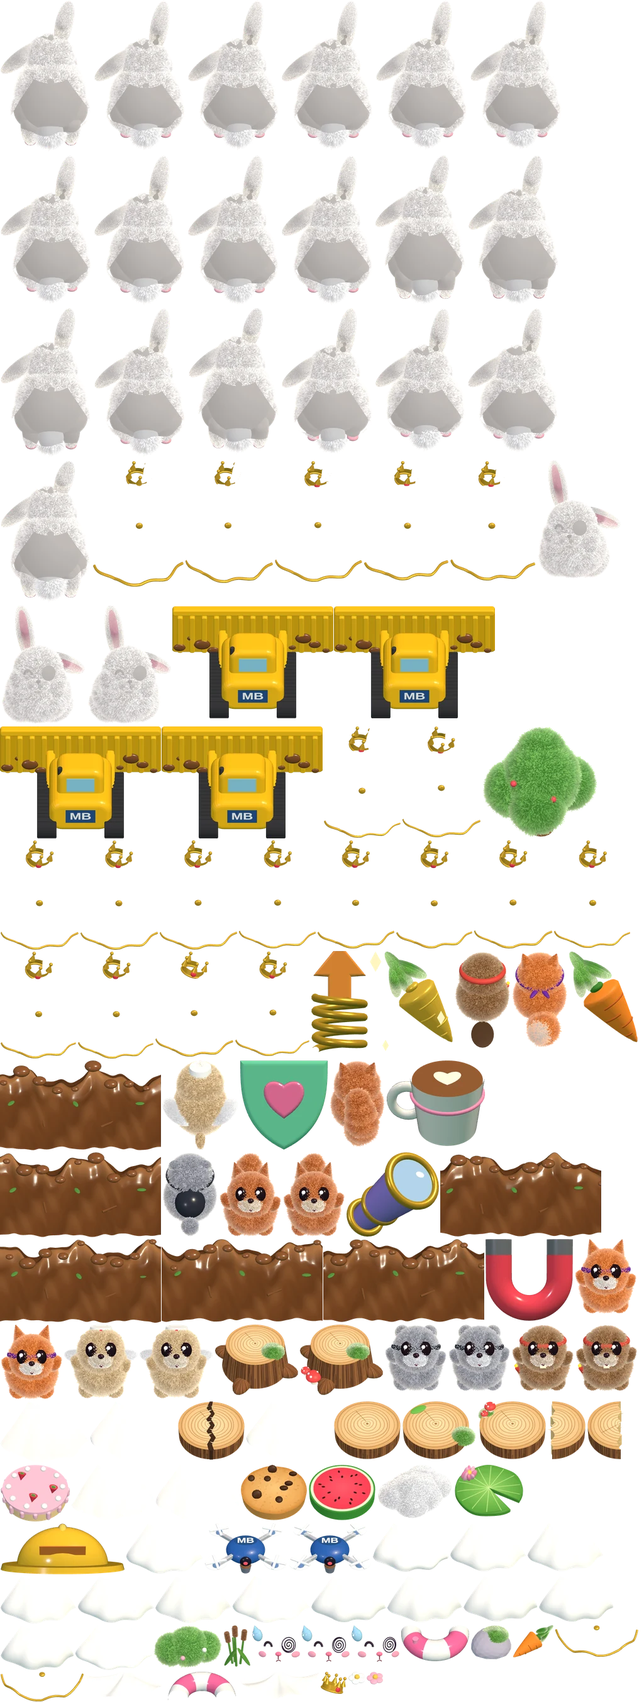
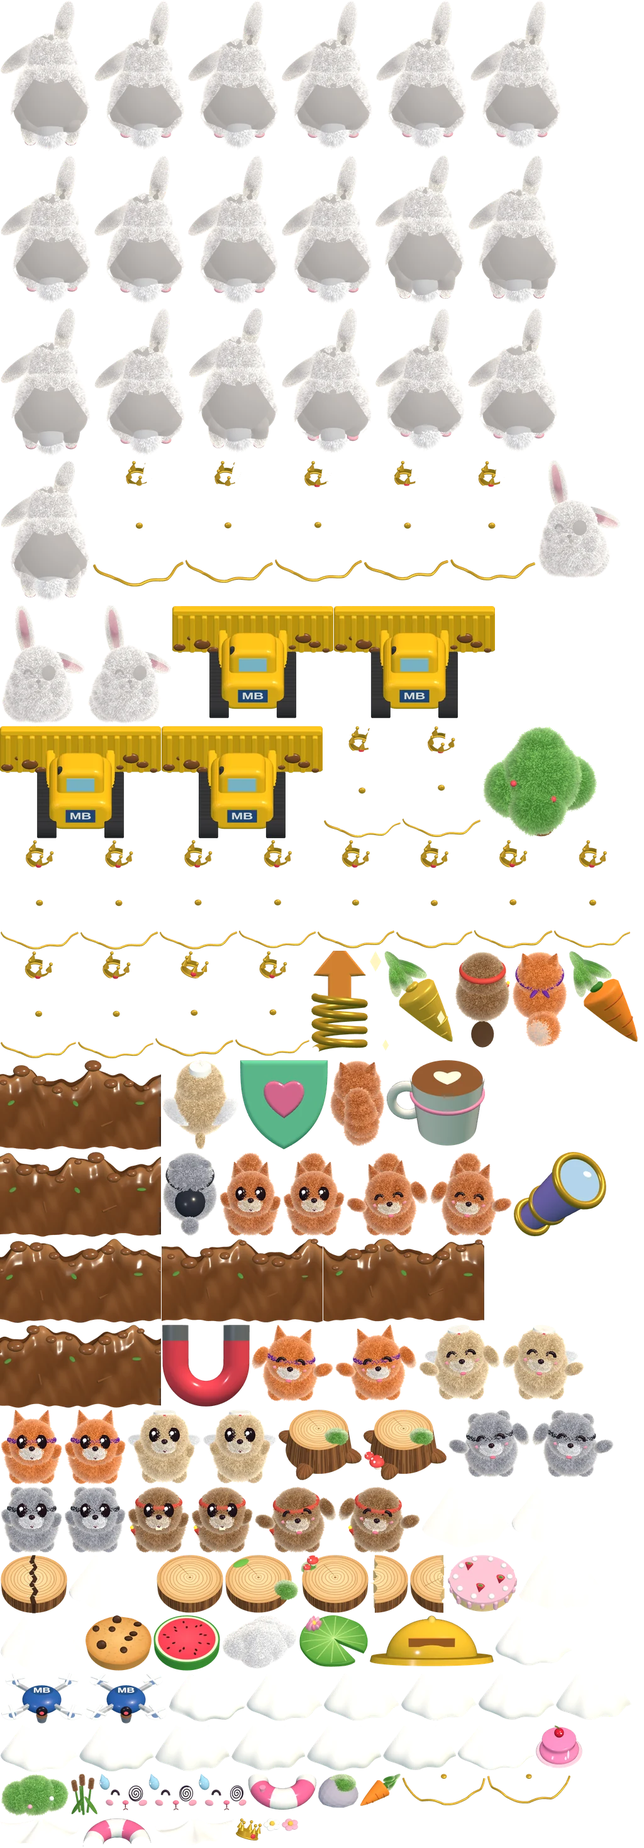
alfa d619ebe: Fans of Jump: la fiesta de la Fiebre arcoíris por niveles, amigos animando y gel

diff --git a/alfa/games/jump/js/atlas.js b/alfa/games/jump/js/atlas.js
@@ -2,4 +2,4 @@
 // Cada dibujo: [x, y, ancho, alto, ax, ay] en la lámina; (ax, ay) es su punto de apoyo. «unidad»: píxeles de la lámina por cada
 // unidad del modelo 3D (de lado, y de alto en el suelo).
 'use strict';
-const ATLAS = {"src":"img/atlas.webp","unidadX":52.5,"unidadY":39.2,"cuadros":{"quieto0_cuerpo":[149,0,148,244,83.0,179.3],"quieto0_capa":[736,2505,119,74,60.0,47.3],"quieto0_oro":[0,1512,122,172,61.5,143.3],"quieto1_cuerpo":[597,0,149,243,83.0,178.8],"quieto1_capa":[856,2505,120,74,60.5,46.8],"quieto1_oro":[123,1512,122,172,62.0,142.8],"quieto2_cuerpo":[0,246,148,242,83.0,178.8],"quieto2_capa":[494,2505,120,75,61.0,46.8],"quieto2_oro":[880,1335,123,173,62.5,142.8],"quieto3_cuerpo":[747,0,149,243,83.0,178.8],"quieto3_capa":[123,2505,122,76,61.0,46.8],"quieto3_oro":[379,1335,124,174,62.5,142.8],"quieto4_cuerpo":[298,0,148,244,83.0,179.3],"quieto4_capa":[715,2421,122,78,61.0,47.3],"quieto4_oro":[0,1335,126,176,62.5,143.3],"quieto5_cuerpo":[149,246,148,242,83.0,179.8],"quieto5_capa":[0,2505,122,77,60.5,47.3],"quieto5_oro":[127,1335,125,176,62.0,143.8],"quieto6_cuerpo":[298,246,148,242,83.0,179.8],"quieto6_capa":[246,2505,122,76,60.0,47.8],"quieto6_oro":[504,1335,124,174,61.5,143.8],"quieto7_cuerpo":[447,246,148,242,83.0,179.8],"quieto7_capa":[615,2505,120,75,59.5,47.3],"quieto7_oro":[629,1335,123,174,61.5,143.8],"agacha_cuerpo":[596,489,146,234,81.5,166.3],"agacha_capa":[0,2583,118,73,59.5,37.8],"agacha_oro":[373,1512,120,168,61.0,131.3],"salto0_cuerpo":[0,732,146,230,80.5,162.3],"salto0_capa":[592,2421,122,79,60.0,50.8],"salto0_oro":[514,1154,124,179,62.0,148.8],"salto1_cuerpo":[299,489,147,237,80.5,168.3],"salto1_capa":[143,2227,138,95,67.0,51.3],"salto1_oro":[294,732,141,196,68.5,149.3],"salto2_cuerpo":[596,246,147,242,80.0,173.8],"salto2_capa":[0,2227,142,100,72.5,51.8],"salto2_oro":[147,732,146,202,74.5,150.3],"salto3_cuerpo":[0,0,148,245,80.5,176.3],"salto3_capa":[113,2328,133,91,68.0,51.8],"salto3_oro":[578,732,136,192,70.0,150.3],"salto4_cuerpo":[744,246,147,242,81.0,176.3],"salto4_capa":[247,2328,134,91,65.0,50.8],"salto4_oro":[715,732,137,192,67.0,149.3],"salto5_cuerpo":[0,489,148,242,81.5,175.8],"salto5_capa":[391,2227,138,94,67.5,49.8],"salto5_oro":[436,732,141,194,69.5,147.8],"aterriza0_cuerpo":[743,489,148,234,82.0,168.8],"aterriza0_capa":[119,2583,123,73,61.0,39.8],"aterriza0_oro":[246,1512,126,169,63.0,133.8],"aterriza1_cuerpo":[447,489,148,237,82.5,172.8],"aterriza1_capa":[200,2421,123,82,61.0,42.8],"aterriza1_oro":[639,1154,126,178,62.5,136.8],"aterriza2_cuerpo":[149,489,149,242,83.0,177.3],"aterriza2_capa":[369,2505,124,76,61.5,45.3],"aterriza2_oro":[753,1335,126,174,63.0,141.3],"aterriza3_cuerpo":[447,0,149,244,83.0,179.3],"aterriza3_capa":[838,2421,122,78,60.5,46.8],"aterriza3_oro":[253,1335,125,176,62.0,142.8],"flota0_cuerpo":[853,732,135,190,59.0,180.8],"flota0_oro":[400,2583,78,60,49.5,105.8],"flota1_cuerpo":[0,963,136,190,61.0,180.8],"flota1_oro":[479,2583,78,60,44.0,105.8],"flota2_cuerpo":[137,963,136,190,63.0,180.8],"flota2_oro":[558,2583,78,60,39.0,105.8],"zorro_susto0":[913,1969,100,121,50.5,102.3],"zorro_susto1":[0,2105,100,121,50.5,102.3],"zorro_espalda":[813,1512,90,154,45.5,96.3],"mapache_susto0":[611,2105,100,108,50.5,89.3],"mapache_susto1":[712,2105,100,108,50.5,89.3],"mapache_espalda":[257,1831,90,136,45.5,96.3],"suricata_susto0":[101,2105,119,120,59.5,101.8],"suricata_susto1":[221,2105,119,120,59.5,101.8],"suricata_espalda":[257,1685,123,144,61.5,106.3],"castor_susto0":[813,2105,100,108,50.5,88.8],"castor_susto1":[914,2105,100,108,50.5,88.8],"castor_espalda":[722,1512,90,155,45.5,96.3],"ardilla_susto0":[348,1831,100,136,50.5,117.8],"ardilla_susto1":[449,1831,100,136,50.5,117.8],"ardilla_espalda":[523,1685,90,140,45.5,96.3],"tronco0":[530,2227,108,94,54.0,36.3],"tronco1":[639,2227,119,94,54.0,36.3],"tronco2":[759,2227,110,94,56.0,36.3],"piel_nenufar":[722,2328,111,84,55.5,37.8],"piel_galleta":[382,2328,107,90,53.5,35.8],"piel_sandia":[490,2328,108,90,54.0,36.3],"piel_tarta":[0,2328,112,92,56.5,36.8],"piel_nube":[599,2328,122,87,62.5,37.8],"tronco_grieta":[282,2227,108,95,54.0,37.3],"tronco_mitad0":[870,2227,62,94,8.0,36.3],"tronco_mitad1":[933,2227,59,94,54.0,36.3],"tocon0":[341,2105,134,114,65.0,61.8],"tocon1":[476,2105,134,114,65.0,61.8],"arbol0":[766,1154,185,178,94.5,160.8],"arbusto0":[243,2583,111,70,56.5,51.8],"roca0":[748,2583,66,56,33.5,39.3],"juncos0":[355,2583,44,68,22.5,64.8],"flor0":[553,2657,28,22,14.5,14.3],"flor1":[582,2657,28,22,14.5,14.3],"dron0":[324,2421,133,82,66.5,86.3],"dron1":[458,2421,133,82,66.5,86.3],"flotador_atras":[266,2657,110,47,55.5,46.3],"flotador_delante":[637,2583,110,59,55.0,16.8],"corona_suelta":[509,2657,43,37,20.0,32.8],"capaflota0":[135,2657,130,48,65.0,14.8],"capaflota1":[377,2657,131,45,65.5,14.8],"capaflota0oro":[882,2583,134,52,66.5,17.3],"capaflota1oro":[0,2657,134,49,67.0,17.3],"zanahoria":[815,2583,66,53,43.0,32.8],"casco_icono":[0,2421,199,83,99.5,139.3],"cafe_icono":[614,1685,158,138,97.0,165.3],"suerte_icono":[587,1512,134,160,64.0,149.3],"mirilla_icono":[550,1831,149,136,78.0,162.8],"iman_icono":[771,1969,141,132,70.5,139.3],"super_icono":[494,1512,92,162,46.0,180.8],"escudo_icono":[381,1685,141,144,70.5,136.8],"zanahoria_icono":[904,1512,111,146,40.5,149.3],"ola0":[257,1969,256,134,128.0,121.3],"ola1":[0,1969,256,135,128.0,122.3],"ola2":[0,1831,256,137,128.0,123.8],"ola3":[0,1685,256,145,128.0,132.3],"ola4":[700,1831,256,136,128.0,122.8],"ola5":[514,1969,256,134,128.0,121.3],"topadora0":[274,963,256,180,128.0,137.3],"topadora1":[531,963,256,180,128.0,137.3],"topadora2":[0,1154,256,180,128.0,137.3],"topadora3":[257,1154,256,180,128.0,137.3]}};
+const ATLAS = {"src":"img/atlas.webp","unidadX":52.5,"unidadY":39.2,"cuadros":{"quieto0_cuerpo":[149,0,148,244,83.0,179.3],"quieto0_capa":[367,2743,119,74,60.0,47.3],"quieto0_oro":[0,1512,122,172,61.5,143.3],"quieto1_cuerpo":[597,0,149,243,83.0,178.8],"quieto1_capa":[487,2743,120,74,60.5,46.8],"quieto1_oro":[123,1512,122,172,62.0,142.8],"quieto2_cuerpo":[0,246,148,242,83.0,178.8],"quieto2_capa":[125,2743,120,75,61.0,46.8],"quieto2_oro":[880,1335,123,173,62.5,142.8],"quieto3_cuerpo":[747,0,149,243,83.0,178.8],"quieto3_capa":[760,2660,122,76,61.0,46.8],"quieto3_oro":[379,1335,124,174,62.5,142.8],"quieto4_cuerpo":[298,0,148,244,83.0,179.3],"quieto4_capa":[391,2660,122,78,61.0,47.3],"quieto4_oro":[0,1335,126,176,62.5,143.3],"quieto5_cuerpo":[149,246,148,242,83.0,179.8],"quieto5_capa":[637,2660,122,77,60.5,47.3],"quieto5_oro":[127,1335,125,176,62.0,143.8],"quieto6_cuerpo":[298,246,148,242,83.0,179.8],"quieto6_capa":[883,2660,122,76,60.0,47.8],"quieto6_oro":[504,1335,124,174,61.5,143.8],"quieto7_cuerpo":[447,246,148,242,83.0,179.8],"quieto7_capa":[246,2743,120,75,59.5,47.3],"quieto7_oro":[629,1335,123,174,61.5,143.8],"agacha_cuerpo":[596,489,146,234,81.5,166.3],"agacha_capa":[608,2743,118,73,59.5,37.8],"agacha_oro":[373,1512,120,168,61.0,131.3],"salto0_cuerpo":[0,732,146,230,80.5,162.3],"salto0_capa":[268,2660,122,79,60.0,50.8],"salto0_oro":[514,1154,124,179,62.0,148.8],"salto1_cuerpo":[299,489,147,237,80.5,168.3],"salto1_capa":[813,2363,138,95,67.0,51.3],"salto1_oro":[294,732,141,196,68.5,149.3],"salto2_cuerpo":[596,246,147,242,80.0,173.8],"salto2_capa":[670,2363,142,100,72.5,51.8],"salto2_oro":[147,732,146,202,74.5,150.3],"salto3_cuerpo":[0,0,148,245,80.5,176.3],"salto3_capa":[824,2472,133,91,68.0,51.8],"salto3_oro":[578,732,136,192,70.0,150.3],"salto4_cuerpo":[744,246,147,242,81.0,176.3],"salto4_capa":[0,2568,134,91,65.0,50.8],"salto4_oro":[715,732,137,192,67.0,149.3],"salto5_cuerpo":[0,489,148,242,81.5,175.8],"salto5_capa":[109,2472,138,94,67.5,49.8],"salto5_oro":[436,732,141,194,69.5,147.8],"aterriza0_cuerpo":[743,489,148,234,82.0,168.8],"aterriza0_capa":[727,2743,123,73,61.0,39.8],"aterriza0_oro":[246,1512,126,169,63.0,133.8],"aterriza1_cuerpo":[447,489,148,237,82.5,172.8],"aterriza1_capa":[787,2568,123,82,61.0,42.8],"aterriza1_oro":[639,1154,126,178,62.5,136.8],"aterriza2_cuerpo":[149,489,149,242,83.0,177.3],"aterriza2_capa":[0,2743,124,76,61.5,45.3],"aterriza2_oro":[753,1335,126,174,63.0,141.3],"aterriza3_cuerpo":[447,0,149,244,83.0,179.3],"aterriza3_capa":[514,2660,122,78,60.5,46.8],"aterriza3_oro":[253,1335,125,176,62.0,142.8],"flota0_cuerpo":[853,732,135,190,59.0,180.8],"flota0_oro":[157,2820,78,60,49.5,105.8],"flota1_cuerpo":[0,963,136,190,61.0,180.8],"flota1_oro":[236,2820,78,60,44.0,105.8],"flota2_cuerpo":[137,963,136,190,63.0,180.8],"flota2_oro":[315,2820,78,60,39.0,105.8],"zorro_susto0":[0,2241,100,121,50.5,102.3],"zorro_susto1":[101,2241,100,121,50.5,102.3],"zorro_espalda":[813,1512,90,154,45.5,96.3],"zorro_anima0":[532,2106,132,123,69.0,104.3],"zorro_anima1":[399,2106,132,124,62.5,104.8],"mapache_susto0":[0,2363,100,108,50.5,89.3],"mapache_susto1":[101,2363,100,108,50.5,89.3],"mapache_espalda":[257,1831,90,136,45.5,96.3],"mapache_anima0":[712,2241,132,110,69.0,91.8],"mapache_anima1":[845,2241,132,110,62.5,91.8],"suricata_susto0":[202,2241,119,120,59.5,101.8],"suricata_susto1":[322,2241,119,120,59.5,101.8],"suricata_espalda":[257,1685,123,144,61.5,106.3],"suricata_anima0":[665,2106,132,122,69.0,103.3],"suricata_anima1":[798,2106,132,122,62.5,103.3],"castor_susto0":[202,2363,100,108,50.5,88.8],"castor_susto1":[303,2363,100,108,50.5,88.8],"castor_espalda":[722,1512,90,155,45.5,96.3],"castor_anima0":[404,2363,132,108,69.0,88.8],"castor_anima1":[537,2363,132,108,62.5,88.8],"ardilla_susto0":[348,1831,100,136,50.5,117.8],"ardilla_susto1":[449,1831,100,136,50.5,117.8],"ardilla_espalda":[523,1685,90,140,45.5,96.3],"ardilla_anima0":[550,1831,132,136,69.0,117.8],"ardilla_anima1":[683,1831,132,136,62.5,117.8],"tronco0":[248,2472,108,94,54.0,36.3],"tronco1":[357,2472,119,94,54.0,36.3],"tronco2":[477,2472,110,94,56.0,36.3],"piel_nenufar":[475,2568,111,84,55.5,37.8],"piel_galleta":[135,2568,107,90,53.5,35.8],"piel_sandia":[243,2568,108,90,54.0,36.3],"piel_tarta":[711,2472,112,92,56.5,36.8],"piel_nube":[352,2568,122,87,62.5,37.8],"tronco_grieta":[0,2472,108,95,54.0,37.3],"tronco_mitad0":[588,2472,62,94,8.0,36.3],"tronco_mitad1":[651,2472,59,94,54.0,36.3],"gelatina":[851,2743,76,70,38.0,41.3],"tocon0":[442,2241,134,114,65.0,61.8],"tocon1":[577,2241,134,114,65.0,61.8],"arbol0":[766,1154,185,178,94.5,160.8],"arbusto0":[0,2820,111,70,56.5,51.8],"roca0":[505,2820,66,56,33.5,39.3],"juncos0":[112,2820,44,68,22.5,64.8],"flor0":[418,2891,28,22,14.5,14.3],"flor1":[447,2891,28,22,14.5,14.3],"dron0":[0,2660,133,82,66.5,86.3],"dron1":[134,2660,133,82,66.5,86.3],"flotador_atras":[131,2891,110,47,55.5,46.3],"flotador_delante":[394,2820,110,59,55.0,16.8],"corona_suelta":[374,2891,43,37,20.0,32.8],"capaflota0":[0,2891,130,48,65.0,14.8],"capaflota1":[242,2891,131,45,65.5,14.8],"capaflota0oro":[639,2820,134,52,66.5,17.3],"capaflota1oro":[774,2820,134,49,67.0,17.3],"zanahoria":[572,2820,66,53,43.0,32.8],"casco_icono":[587,2568,199,83,99.5,139.3],"cafe_icono":[614,1685,158,138,97.0,165.3],"suerte_icono":[587,1512,134,160,64.0,149.3],"mirilla_icono":[816,1831,149,136,78.0,162.8],"iman_icono":[257,2106,141,132,70.5,139.3],"super_icono":[494,1512,92,162,46.0,180.8],"escudo_icono":[381,1685,141,144,70.5,136.8],"zanahoria_icono":[904,1512,111,146,40.5,149.3],"ola0":[514,1969,256,134,128.0,121.3],"ola1":[257,1969,256,135,128.0,122.3],"ola2":[0,1831,256,137,128.0,123.8],"ola3":[0,1685,256,145,128.0,132.3],"ola4":[0,1969,256,136,128.0,122.8],"ola5":[0,2106,256,134,128.0,121.3],"topadora0":[274,963,256,180,128.0,137.3],"topadora1":[531,963,256,180,128.0,137.3],"topadora2":[0,1154,256,180,128.0,137.3],"topadora3":[257,1154,256,180,128.0,137.3]}};

diff --git a/alfa/games/jump/js/fiesta.js b/alfa/games/jump/js/fiesta.js
@@ -1,0 +1,125 @@
+// Fans of Jump · La FIESTA de la Fiebre arcoíris: cuantos más ¡Perfecto! seguidos (J.cadena), más sube el nivel (1 a 5) y más
+// espectacular se pone: un arcoíris encima de otro, lluvia de confeti, globos que suben, mariposas de colores, los amigos
+// animando desde las orillas, fuegos artificiales y, a tope, el borde de la pantalla brillando en arcoíris. La música va más
+// deprisa en cada nivel (sonido.js). Un salto que no es perfecto baja la fiesta al nivel 1 hasta que se acaba la Fiebre.
+'use strict';
+
+const NIVELES_FIESTA = [3, 8, 14, 22, 32];   // ¡Perfecto! seguidos para cada nivel
+const TITULOS_FIESTA = [null, null, '¡Doble arcoíris!', '¡Triple arcoíris!', '¡Fiesta en el bosque!', '¡ARCOÍRIS INFINITO!'];
+const FIESTA = { nivel: 0, arcos: [0, 0, 0, 0, 0], globos: [], fuegos: [], chispas: [], maris: [], fans: [], borde: 0 };
+const FANS_ID = ['zorro', 'castor', 'suricata', 'mapache', 'ardilla', 'zorro'];
+const FANS_Y = [0.42, 0.58, 0.72, 0.3, 0.86, 0.47];   // a qué altura de la pantalla anima cada uno (pares a la izquierda)
+
+function nivelFiesta() {
+  const J = JUEGO;
+  if (!(J.fiebre > 0) || J.modo !== 'juego') return 0;
+  let n = 0; for (const u of NIVELES_FIESTA) if ((J.cadena || 0) >= u) n++;
+  return Math.max(1, n);
+}
+function reiniciaFiesta() { Object.assign(FIESTA, { nivel: 0, arcos: [0, 0, 0, 0, 0], globos: [], fuegos: [], chispas: [], maris: [], fans: [], borde: 0 }); }
+
+function subeFiesta(n) {
+  const J = JUEGO;
+  if (n < 2) return;   // el nivel 1 es la Fiebre de siempre (enciendeFiebre)
+  bandera(tr(TITULOS_FIESTA[n]), 'arcoiris');
+  confeti(PAN.W / 2, J.conejo.wy, 30 + n * 15);
+  for (let i = 0; i < n; i++) FIESTA.globos.push(globo(true));
+  if (n >= 4) for (let i = 0; i < n - 2; i++) fuego();
+  SONIDO.fiesta(n); vibra([20, 30, 20 + n * 10]);
+  // los amigos de la orilla: entran en el nivel 3 y cada nivel trae más
+  const quiere = n >= 3 ? (n - 2) * 2 : 0;
+  while (FIESTA.fans.filter(f => !f.sale).length < quiere) {
+    const i = FIESTA.fans.length, lado = i % 2 ? 1 : -1;
+    FIESTA.fans.push({ id: FANS_ID[i % FANS_ID.length], lado, y: FANS_Y[i % FANS_Y.length], entra: 0, sale: false, f: Math.random() * 6 });
+  }
+}
+
+/* ---------- lo que vuela ---------- */
+function globo(abajo) {
+  const W = PAN.W;
+  return { x: azar(10, W - 10), y: abajo ? PAN.H + azar(5, 40) : PAN.H + 10, v: azar(26, 40), f: Math.random() * 6, r: azar(5.5, 8), c: ARCOIRIS[Math.floor(Math.random() * 7)], pum: 0 };
+}
+function fuego() {
+  const W = PAN.W, x = azar(W * 0.15, W * 0.85), y = azar(PAN.H * 0.08, PAN.H * 0.32), c = ARCOIRIS[Math.floor(Math.random() * 7)], n = GUARDA.suave ? 14 : 26;
+  for (let i = 0; i < n; i++) { const a = i / n * Math.PI * 2, s = azar(55, 80); FIESTA.chispas.push({ x, y, vx: Math.cos(a) * s, vy: Math.sin(a) * s, v: azar(0.9, 1.3), c: i % 3 ? c : '#ffffff' }); }
+  FIESTA.fuegos.push({ x, y, t: 0 });
+  SONIDO.pum();
+}
+
+function avanzaFiesta(dt) {
+  const F = FIESTA, n = nivelFiesta(), W = PAN.W, H = PAN.H, poco = GUARDA.suave ? 0.4 : 1;
+  if (n > F.nivel) subeFiesta(n);
+  F.nivel = n;
+  // los arcoíris: cada uno aparece (y se va) suave
+  F.arcos = F.arcos.map((a, i) => a + ((i < n ? 1 : 0) - a) * Math.min(1, dt * (i < n ? 2.5 : 3)));
+  F.borde += ((n >= 5 ? 1 : 0) - F.borde) * Math.min(1, dt * 2);
+  // lluvia de confeti, globos, mariposas y fuegos: más cuanto más alto el nivel
+  if (n >= 2 && Math.random() < dt * (n - 1) * 5 * poco && BONITO.confeti.length < 260) confeti(W / 2, 0, 3);
+  if (n >= 3 && Math.random() < dt * (n - 2) * 0.8 * poco && F.globos.length < 13) F.globos.push(globo(false));
+  if (n >= 3 && Math.random() < dt * (n - 2) * 0.9 * poco && F.maris.length < 18) F.maris.push({ x: Math.random() < 0.5 ? -6 : W + 6, d: 0, y: azar(H * 0.15, H * 0.8), f: Math.random() * 6, v: azar(14, 24), c: Math.floor(Math.random() * 3), vida: 6 });
+  if (n >= 4 && Math.random() < dt * (n - 3) * 0.9 * poco) fuego();
+  for (const g of F.globos) { g.f += dt; g.y -= g.v * dt; g.x += Math.sin(g.f * 1.6) * 6 * dt; if (g.y < 30 && !g.pum && Math.random() < dt * 3) g.pum = 0.001; if (g.pum) g.pum += dt; }
+  F.globos = F.globos.filter(g => g.y > -20 && g.pum < 0.25);
+  for (const m of F.maris) { if (!m.d) m.d = m.x < 0 ? 1 : -1; m.f += dt * 3; m.vida -= dt; m.x += (m.d * m.v + Math.cos(m.f * 0.5) * 8) * dt; m.y += (Math.sin(m.f * 0.8) * 14 - 6) * dt; }
+  F.maris = F.maris.filter(m => m.vida > 0);
+  for (const c of F.chispas) { c.x += c.vx * dt; c.y += c.vy * dt; c.vx *= 1 - dt * 1.8; c.vy = c.vy * (1 - dt * 1.8) + 30 * dt; c.v -= dt; }
+  F.chispas = F.chispas.filter(c => c.v > 0);
+  for (const f of F.fuegos) f.t += dt;
+  F.fuegos = F.fuegos.filter(f => f.t < 0.35);
+  // los amigos de la orilla: si baja la fiesta, se van saltando
+  const quiere = n >= 3 ? (n - 2) * 2 : 0;
+  F.fans.forEach((f, i) => { f.f += dt; if (i >= quiere) f.sale = true; f.entra = Math.max(0, Math.min(1, f.entra + (f.sale ? -dt * 2 : dt * 2.5))); });
+  F.fans = F.fans.filter(f => !(f.sale && f.entra <= 0));
+}
+
+/* ---------- pintar ---------- */
+// los arcoíris de la fiebre, uno encima de otro (detrás de lo de arriba del mundo)
+function pintaArcos(t) {
+  const F = FIESTA, W = PAN.W, H = PAN.H;
+  G.save(); G.lineCap = 'butt';
+  F.arcos.forEach((a, j) => {
+    if (a < 0.02) return;
+    const cx = W / 2 + Math.sin(t * 0.8 + j * 1.7) * j * 3, cy = H * (0.55 - j * 0.085) + Math.sin(t * 1.3 + j) * 2, R = W * (0.62 - j * 0.035) * (0.7 + a * 0.3);
+    G.globalAlpha = (j ? 0.4 : 0.45) * a;
+    ARCOIRIS.forEach((col, i) => { G.beginPath(); G.arc(cx, cy, R - i * 4.2, Math.PI * 1.05, Math.PI * 1.95); G.lineWidth = 4.4; G.strokeStyle = col; G.stroke(); });
+    // brillitos que corren por encima del arco
+    const k = (t * 0.35 + j * 0.23) % 1, ang = Math.PI * (1.05 + k * 0.9);
+    estrellita(cx + Math.cos(ang) * (R - 12), cy + Math.sin(ang) * (R - 12), 3.4, 0.9 * a);
+  });
+  G.restore();
+}
+// los amigos animando desde las orillas (detrás de los troncos): entran desde el lado y botan con los brazos arriba
+function pintaFans(t) {
+  for (const f of FIESTA.fans) {
+    const e = f.entra * f.entra * (3 - 2 * f.entra), y = PAN.H * f.y, x0 = f.lado < 0 ? -14 : PAN.W + 14;
+    const borde = f.lado < 0 ? orillas(CAM.y + PAN.H - y)[0] - 9 : orillas(CAM.y + PAN.H - y)[1] + 9;
+    const x = x0 + (borde - x0) * e, bote = Math.abs(Math.sin(f.f * 7)) * 5;
+    elipse(x, y + 1, 5.5 - bote * 0.4, 1.8, 'rgba(60,90,40,0.25)', null);
+    sprite(f.id + '_anima' + (Math.floor(f.f * 5) % 2), x, y - bote, 11, Math.sin(f.f * 7) * 0.08, f.lado < 0 ? 1 : -1, 1);
+  }
+}
+function pintaGlobo(g) {
+  const k = g.pum ? 1 + g.pum * 6 : 1;
+  if (g.pum) { G.globalAlpha = Math.max(0, 1 - g.pum * 4); for (let i = 0; i < 6; i++) { const a = i * 1.047; estrellita(g.x + Math.cos(a) * g.r * k, g.y + Math.sin(a) * g.r * k, 2, 1); } G.globalAlpha = 1; return; }
+  const s = Math.sin(g.f * 2) * 3;
+  G.beginPath(); G.moveTo(g.x, g.y + g.r * 1.2); G.quadraticCurveTo(g.x + s, g.y + g.r * 2.2, g.x - s * 0.5, g.y + g.r * 3.4);
+  G.lineWidth = 0.6; G.strokeStyle = 'rgba(80,60,100,0.6)'; G.stroke();
+  G.beginPath(); G.moveTo(g.x - 1.3, g.y + g.r * 1.25); G.lineTo(g.x + 1.3, g.y + g.r * 1.25); G.lineTo(g.x, g.y + g.r * 1.05); G.closePath(); G.fillStyle = g.c; G.fill();
+  elipse(g.x, g.y, g.r, g.r * 1.18, vol(g.x, g.y, g.r, g.r * 1.18, g.c), OLC, 0.8);
+  elipse(g.x - g.r * 0.35, g.y - g.r * 0.45, g.r * 0.22, g.r * 0.36, 'rgba(255,255,255,0.7)', null, 0, 0.5);
+}
+// encima del mundo: globos, mariposas de fiesta, fuegos artificiales y el borde arcoíris
+function pintaFiestaAire(t) {
+  const F = FIESTA, W = PAN.W, H = PAN.H;
+  for (const g of F.globos) pintaGlobo(g);
+  for (const m of F.maris) { G.globalAlpha = Math.min(1, m.vida); mariposa(m, t); G.globalAlpha = 1; }
+  for (const f of F.fuegos) { const k = f.t / 0.35, r = 6 + k * 26; G.globalAlpha = 1 - k; elipse(f.x, f.y, r, r, 'rgba(255,250,220,0.5)', null); G.globalAlpha = 1; }
+  for (const c of F.chispas) { const a = Math.min(1, c.v * 1.6); G.globalAlpha = a; trazo(c.x - c.vx * 0.06, c.y - c.vy * 0.06, c.x, c.y, 1.6, c.c, null); elipse(c.x, c.y, 1.4, 1.4, c.c, null); if (c.v > 0.8) estrellita(c.x, c.y, 2.6, a); G.globalAlpha = 1; }
+  if (F.borde > 0.02) {
+    const p = 0.55 + Math.sin(t * 6) * 0.25, g = G.createLinearGradient(0, 0, W, H);
+    ARCOIRIS.forEach((c, i) => g.addColorStop(((i / 7 + t * 0.3) % 1), c));
+    G.save(); G.globalAlpha = F.borde * p; G.strokeStyle = g; G.lineWidth = 5;
+    G.strokeRect(2.5, 2.5, W - 5, H - 5); G.globalAlpha = F.borde * p * 0.4; G.lineWidth = 12; G.strokeRect(6, 6, W - 12, H - 12);
+    G.restore();
+  }
+}

diff --git a/alfa/games/jump/idioma/en-raiz.js b/alfa/games/jump/idioma/en-raiz.js
@@ -12,6 +12,6 @@ IDIOMA.add({
  "Microblizz ha puesto los troncos más juntos al principio para que nadie se canse. Phony dice que es para que la topadora llegue antes.": "Microblizz has put the logs closer together at the start so nobody gets tired. Phony says it's so the bulldozer gets there sooner.",
   "<b>ZANAHORIAS DE ESPECTÁCULO</b>: las de los troncos son grandes, flotan botando con un brillo dorado y destellos, y al cogerlas salen volando una a una hasta tu contador.": "<b>SHOWSTOPPER CARROTS</b>: the ones on the logs are big, float and bounce with a golden glow and sparkles, and when you grab them they fly one by one to your counter.",
   "Microblizz ha inflado las zanahorias para que se vean desde la topadora. Phony ha intentado comerse una y era de plástico.": "Microblizz inflated the carrots so they can be seen from the bulldozer. Phony tried to eat one and it was plastic.",
- "<b>CAÍDAS DE PELÍCULA</b>: al caer al agua hay un instante a cámara lenta, un salpicón de verdad (corona de gotas, columna de agua, espuma y ondas), CrazyBunny asoma enseguida en un flotador rosa, se le escurre la capa, que queda flotando a su lado, y su corona sale volando y le cae encima: ¡CLONK! Los amigos que llevabas salen despedidos y flotan en sus flotadores, con corazones. Las gotas tienen el color del agua donde caes: más turbia cuanto más cerca está la ola. Si te pilla la ola, salpica barro y te mancha la pantalla. <b>RANKING MUNDIAL</b> en Mis récords: los 50 primeros y tu puesto, con el apodo que elijas. Los troncos agrietados se agrietan en 3D y, si te quedas encima 2 segundos, se parten en dos con astillas: ¡crac! Nuevas pieles de troncos en el puesto de Lola (nenúfares, galletas, sandías, tartas y nubes), iconos nuevos en 3D, la zanahoria de la fuerza con marcas al 25, 50 y 75 % y, al caer, CrazyBunny te mira mareado desde su flotador.": "<b>MOVIE-STYLE FALLS</b>: when you fall in the water there is a slow-motion moment, a real splash (a crown of droplets, a water column, foam and ripples), CrazyBunny pops right up in a pink swim ring, the cape slips off and floats alongside, and the crown flies off and lands right on it: CLONK! The friends you were carrying get flung off and float in their own swim rings, with hearts. The droplets are the colour of the water where you fall: muddier the closer the wave is. If the wave catches you, mud splashes onto your screen. <b>WORLD RANKING</b> in My records: the top 50 and your rank, with the nickname you choose. Cracked logs crack in 3D and, if you stay on them for 2 seconds, split in two with splinters: crack! New log skins at Lola's stall (lily pads, cookies, watermelons, cakes and clouds), new 3D icons, the power carrot with marks at 25, 50 and 75 %, and when you fall CrazyBunny looks at you dizzy from the swim ring.",
+ "<b>CAÍDAS DE PELÍCULA</b>: al caer al agua hay un instante a cámara lenta, un salpicón de verdad (corona de gotas, columna de agua, espuma y ondas), CrazyBunny asoma enseguida en un flotador rosa, se le escurre la capa, que queda flotando a su lado, y su corona sale volando y le cae encima: ¡CLONK! Los amigos que llevabas salen despedidos y flotan en sus flotadores, con corazones. Las gotas tienen el color del agua donde caes: más turbia cuanto más cerca está la ola. Si te pilla la ola, salpica barro y te mancha la pantalla. <b>RANKING MUNDIAL</b> en Mis récords: los 50 primeros y tu puesto, con el apodo que elijas. Los troncos agrietados se agrietan en 3D y, si te quedas encima 2 segundos, se parten en dos con astillas: ¡crac! Nuevas pieles de troncos en el puesto de Lola (nenúfares, galletas, sandías, tartas y nubes), iconos nuevos en 3D, la zanahoria de la fuerza con marcas al 25, 50 y 75 % y, al caer, CrazyBunny te mira mareado desde su flotador. <b>LA FIESTA DE LA FIEBRE</b>: encadenando ¡Perfecto! la Fiebre arcoíris no se acaba y cada vez es más espectacular: doble y triple arcoíris, lluvia de confeti, globos, mariposas, los amigos animando desde las orillas, fuegos artificiales y la música cada vez más frenética. El tronco gelatina ahora es una gelatina rosa en 3D con su cereza.": "<b>MOVIE-STYLE FALLS</b>: when you fall in the water there is a slow-motion moment, a real splash (a crown of droplets, a water column, foam and ripples), CrazyBunny pops right up in a pink swim ring, the cape slips off and floats alongside, and the crown flies off and lands right on it: CLONK! The friends you were carrying get flung off and float in their own swim rings, with hearts. The droplets are the colour of the water where you fall: muddier the closer the wave is. If the wave catches you, mud splashes onto your screen. <b>WORLD RANKING</b> in My records: the top 50 and your rank, with the nickname you choose. Cracked logs crack in 3D and, if you stay on them for 2 seconds, split in two with splinters: crack! New log skins at Lola's stall (lily pads, cookies, watermelons, cakes and clouds), new 3D icons, the power carrot with marks at 25, 50 and 75 %, and when you fall CrazyBunny looks at you dizzy from the swim ring. <b>THE FEVER PARTY</b>: chain Perfect! jumps and Rainbow Fever keeps going and gets more spectacular every time: double and triple rainbows, a confetti shower, balloons, butterflies, your friends cheering from the riverbanks, fireworks and ever more frantic music. The jelly log is now a pink 3D jelly with a cherry on top.",
  "Microblizz ha pedido que las caídas sean más dramáticas. Phony ya ha ensayado la suya tres veces y sigue sin saber nadar.": "Microblizz asked for more dramatic falls. Phony has rehearsed one three times and still can't swim."
 });

diff --git a/alfa/games/jump/js/novedades.js b/alfa/games/jump/js/novedades.js
@@ -2,7 +2,7 @@
 // lo lee para su tarjeta de la Biblioteca; el juego no lo carga.
 'use strict';
 const NEWS = [
-  { v: '0.3.3', real: ["<b>CAÍDAS DE PELÍCULA</b>: al caer al agua hay un instante a cámara lenta, un salpicón de verdad (corona de gotas, columna de agua, espuma y ondas), CrazyBunny asoma enseguida en un flotador rosa, se le escurre la capa, que queda flotando a su lado, y su corona sale volando y le cae encima: ¡CLONK! Los amigos que llevabas salen despedidos y flotan en sus flotadores, con corazones. Las gotas tienen el color del agua donde caes: más turbia cuanto más cerca está la ola. Si te pilla la ola, salpica barro y te mancha la pantalla. <b>RANKING MUNDIAL</b> en Mis récords: los 50 primeros y tu puesto, con el apodo que elijas. Los troncos agrietados se agrietan en 3D y, si te quedas encima 2 segundos, se parten en dos con astillas: ¡crac! Nuevas pieles de troncos en el puesto de Lola (nenúfares, galletas, sandías, tartas y nubes), iconos nuevos en 3D, la zanahoria de la fuerza con marcas al 25, 50 y 75 % y, al caer, CrazyBunny te mira mareado desde su flotador."], joke: ["Microblizz ha pedido que las caídas sean más dramáticas. Phony ya ha ensayado la suya tres veces y sigue sin saber nadar."] },
+  { v: '0.3.3', real: ["<b>CAÍDAS DE PELÍCULA</b>: al caer al agua hay un instante a cámara lenta, un salpicón de verdad (corona de gotas, columna de agua, espuma y ondas), CrazyBunny asoma enseguida en un flotador rosa, se le escurre la capa, que queda flotando a su lado, y su corona sale volando y le cae encima: ¡CLONK! Los amigos que llevabas salen despedidos y flotan en sus flotadores, con corazones. Las gotas tienen el color del agua donde caes: más turbia cuanto más cerca está la ola. Si te pilla la ola, salpica barro y te mancha la pantalla. <b>RANKING MUNDIAL</b> en Mis récords: los 50 primeros y tu puesto, con el apodo que elijas. Los troncos agrietados se agrietan en 3D y, si te quedas encima 2 segundos, se parten en dos con astillas: ¡crac! Nuevas pieles de troncos en el puesto de Lola (nenúfares, galletas, sandías, tartas y nubes), iconos nuevos en 3D, la zanahoria de la fuerza con marcas al 25, 50 y 75 % y, al caer, CrazyBunny te mira mareado desde su flotador. <b>LA FIESTA DE LA FIEBRE</b>: encadenando ¡Perfecto! la Fiebre arcoíris no se acaba y cada vez es más espectacular: doble y triple arcoíris, lluvia de confeti, globos, mariposas, los amigos animando desde las orillas, fuegos artificiales y la música cada vez más frenética. El tronco gelatina ahora es una gelatina rosa en 3D con su cereza."], joke: ["Microblizz ha pedido que las caídas sean más dramáticas. Phony ya ha ensayado la suya tres veces y sigue sin saber nadar."] },
   { v: '0.3.2', real: ["<b>ZANAHORIAS DE ESPECTÁCULO</b>: las de los troncos son grandes, flotan botando con un brillo dorado y destellos, y al cogerlas salen volando una a una hasta tu contador."], joke: ["Microblizz ha inflado las zanahorias para que se vean desde la topadora. Phony ha intentado comerse una y era de plástico."] },
   { v: '0.3.1', real: ["<b>UN PRINCIPIO MÁS AMABLE</b>: los primeros 220 m tienen los troncos más juntos, más grandes y quietos, y al caer se perdona un poco el borde; luego el río se va poniendo difícil poco a poco. Los troncos que se hunden salen más tarde."], joke: ["Microblizz ha puesto los troncos más juntos al principio para que nadie se canse. Phony dice que es para que la topadora llegue antes."] },
   { v: '0.3.0', real: ['<b>¡YA ES UN JUEGO!</b>: Fans of Jump llega a la Biblioteca y al móvil. Menús nuevos: el puesto de Lola (amigos, pelaje, capas y kit de sabotaje), los expedientes de Lola, la hoja de reclamaciones y el parte de incidencias de Microblizz al acabar. Las órdenes de Microblizz que CrazyBunny incumple, la RABIA de tu pandilla y las cintas de obra que se rompen al cruzarlas.', '<b>LOLA TE ENSEÑA</b>: la primera partida va guiada paso a paso (y se repite desde la hoja de reclamaciones). Todos los animales salen atrapados en el río desde el principio; en el puesto se contrata su poder. Más difícil: troncos más lejos, más pequeños y que se mueven más, y del salto solo se ve el principio. Si caes, puedes seguir pagando zanahorias, y la topadora se ve empujando la ola. Zanahorias nuevas, gorditas.', '<b>MÁS COSAS EN EL RÍO</b>: botón ¡A JUGAR! y el reto del día (el mismo río para todos). Objetos en los troncos: mirilla, imán de zanahorias, supersalto y escudo. Troncos que se hunden si tardas y gelatinas que te lanzan lejos. El dron de Microblizz embarra troncos: ¡resbalan! Tu fantasma repite tu récord, estelas nuevas en el puesto de Lola y el móvil vibra.'],

diff --git a/alfa/index.html b/alfa/index.html
@@ -10,10 +10,10 @@
 <link rel="preconnect" href="https://fonts.googleapis.com">
 <link rel="preconnect" href="https://fonts.gstatic.com" crossorigin>
 <link rel="stylesheet" href="https://fonts.googleapis.com/css2?family=Baloo+2:wght@600;700;800&family=Luckiest+Guy&display=swap">
-<link rel="stylesheet" href="core/css/base.css?v=6ec842b">
-<link rel="stylesheet" href="biblioteca/tienda.css?v=6ec842b">
-<link rel="stylesheet" href="novedades/ventana.css?v=6ec842b">
-<link rel="stylesheet" href="biblioteca/votos.css?v=6ec842b">
+<link rel="stylesheet" href="core/css/base.css?v=d619ebe">
+<link rel="stylesheet" href="biblioteca/tienda.css?v=d619ebe">
+<link rel="stylesheet" href="novedades/ventana.css?v=d619ebe">
+<link rel="stylesheet" href="biblioteca/votos.css?v=d619ebe">
 <style>
   /* la entrada de la web: una tarjeta por juego, con los colores y las letras de core */
   body { overflow: auto; touch-action: auto; align-items: flex-start; }
@@ -235,8 +235,8 @@
   </section>
   <p class="note">© 2026 Arkioner y Pepins · MicroBlizz · Todos los derechos reservados</p>
 </main>
-<script src="core/js/nucleo.js?v=0-a355.6ec842b"></script>
-<script src="core/js/novedades.js?v=6ec842b"></script>
+<script src="core/js/nucleo.js?v=0-a356.d619ebe"></script>
+<script src="core/js/novedades.js?v=d619ebe"></script>
 <script>
 // La cuenta de la web es la misma de los juegos (core/js/sistema/cuenta.js, mismo navegador = misma sesión). Aquí no hay partida que subir.
 const AJUSTES = { id: 'web', guardado: 'fansof-web' }, SAVE_KEY = AJUSTES.guardado, SAVE = {};
@@ -245,7 +245,7 @@ const HOOKS = {};
 function hook(name, fn) { (HOOKS[name] = HOOKS[name] || []).push(fn); }
 function fire(name, ...a) { let out = ''; for (const fn of HOOKS[name] || []) { const r = fn(...a); if (typeof r === 'string') out += r; } return out; }
 </script>
-<script src="core/js/sistema/cuenta.js?v=6ec842b"></script>
+<script src="core/js/sistema/cuenta.js?v=d619ebe"></script>
 <script>NUCLEO.idiomaSolo({ en: ['core/idioma/en-raiz.js', 'novedades/en.js', 'biblioteca/en.js','games/rumble/idioma/en-7.js', 'games/td/idioma/en-2.js', 'games/survivors/idioma/en.js', 'games/crush/idioma/en-raiz.js', 'games/jump/idioma/en-raiz.js', 'games/dark/idioma/en-raiz.js', 'games/nova/idioma/en-raiz.js', 'demos/beams/idioma/en-raiz.js', 'games/island/idioma/en-raiz.js', 'demos/rumble-3d/idioma/en-raiz.js', 'demos/roguelite/idioma/en-raiz.js', 'demos/tactics-advance/idioma/en-raiz.js', 'games/rouflage/idioma/en-raiz.js', 'demos/dungeons/idioma/en-raiz.js', 'games/karts/idioma/en-raiz.js', 'demos/recruit/idioma/en-raiz.js', 'demos/terminal-shock/idioma/en-raiz.js', 'games/ratkov/idioma/en-raiz.js'] })</script>
 <script>
 // La versión y las novedades salen de los archivos de cada juego, así que esta página nunca se queda atrás.
@@ -271,11 +271,11 @@ const fail = id => () => {
 };
 
 </script>
-<script src="novedades/ventana.js?v=6ec842b"></script>
-<script src="biblioteca/tienda.js?v=6ec842b"></script>
-<script src="biblioteca/cuenta-web.js?v=6ec842b"></script>
-<script src="biblioteca/votos.js?v=6ec842b"></script>
-<script src="biblioteca/alfa.js?v=6ec842b"></script>
-<script src="core/js/sistema/analitica.js?v=6ec842b"></script>
+<script src="novedades/ventana.js?v=d619ebe"></script>
+<script src="biblioteca/tienda.js?v=d619ebe"></script>
+<script src="biblioteca/cuenta-web.js?v=d619ebe"></script>
+<script src="biblioteca/votos.js?v=d619ebe"></script>
+<script src="biblioteca/alfa.js?v=d619ebe"></script>
+<script src="core/js/sistema/analitica.js?v=d619ebe"></script>
 </body>
 </html>

diff --git a/alfa/games/jump/js/partida.js b/alfa/games/jump/js/partida.js
@@ -27,11 +27,11 @@ const poder = id => llevo(id) && tengoAmigo(id);
 function nuevaPartida(modo = 'menu') {
   const x = PAN.W / 2;
   CAM.y = -PAN.H * 0.3;
-  preparaAzar();
+  preparaAzar(); reiniciaFiesta();
   const t = reiniciaRio(x, preparaTuto());
   Object.assign(JUEGO, {
     modo, t: 0, puntos: 0, metros: 0, zanas: 0, rescatados: 0, cuestas: [], caen: [], fin: null, tFin: 0, temblor: 0,
-    racha: 0, maxRacha: 0, enTronco: 0, perfSeguidos: 0, perfectos: 0, saltos: 0, maxCuestas: 0, fiebre: 0, fiebres: 0,
+    racha: 0, maxRacha: 0, enTronco: 0, perfSeguidos: 0, cadena: 0, perfectos: 0, saltos: 0, maxCuestas: 0, fiebre: 0, fiebres: 0,
     liberados: [], viajes: {}, cayeron: 0, zorroUsado: false, tutoHecho: false, recordReto: false, lento: 0, mirilla: 0, iman: 0, super: 0, escudo: false, seguido: false, casi: null, duplicado: false, metas: [], hechas: [], kit: {}, casco: false, cafe: 0, ganadas: 0,
   });
   JUEGO.conejo = { x, wy: 0, tronco: t, ox: 0, owy: 0, ang: 0, salto: null, hunde: 0, cae: 0, ultimo: t };
@@ -106,7 +106,7 @@ function aterriza() {
   for (const id of J.cuestas) J.viajes[id] = (J.viajes[id] || 0) + 1;
   // el tronco embarrado por el dron: resbalas (se cae un amigo y adiós racha)
   const resbala = mejor.barro;
-  if (resbala) { J.racha = 0; J.perfSeguidos = 0; aviso(tr('¡Resbala!'), c.x - 20, c.wy + 22, '#c99060', 10); vibra(50); }
+  if (resbala) { J.racha = 0; J.perfSeguidos = 0; J.cadena = 0; aviso(tr('¡Resbala!'), c.x - 20, c.wy + 22, '#c99060', 10); vibra(50); }
   if ((r > BORDE_UY || resbala) && J.cuestas.length) {
     if (poder('zorro') && !J.zorroUsado) { J.zorroUsado = true; aviso(tr('¡SlyFox lo esquiva!'), c.x, c.wy + 14, '#ffb37a', 9); }
     else {
@@ -120,10 +120,11 @@ function aterriza() {
     mejor.pisado = true; J.saltos++;
     let p = puntosPor(10);
     if (r < CENTRO_PERFECTO && !resbala) {
-      p += puntosPor(5); J.perfectos++; J.perfSeguidos++;
+      p += puntosPor(5); J.perfectos++; J.perfSeguidos++; J.cadena++;
+      if (J.fiebre > 0) J.fiebre = FIEBRE_SEG;   // encadenando ¡Perfecto! la Fiebre no se acaba (y la fiesta crece: fiesta.js)
       aviso(tr('¡Perfecto!'), c.x, c.wy + 26, '#ffe066', 11); estrellas(c.x, c.wy); petalos(c.x, c.wy, 10); SONIDO.perfecto(); vibra(25);
       if (J.perfSeguidos >= 3 && J.fiebre <= 0) enciendeFiebre();
-    } else J.perfSeguidos = 0;
+    } else { J.perfSeguidos = 0; J.cadena = 0; }
     if (poder('ardilla')) p += 5;
     J.puntos += p;
     aviso('+' + p, c.x + 16, c.wy + 6, J.fiebre > 0 ? '#ffd0f0' : '#fff8ea', 9);
@@ -238,7 +239,7 @@ function avanzaJuego(dt) {
   const camObj = c.wy - PAN.H * 0.36;
   if (camObj > CAM.y) CAM.y += (camObj - CAM.y) * Math.min(1, dt * 3);
   generaRio(CAM.y + PAN.H + 140);
-  avanzaFx(dt); avanzaHumo(dt); avanzaBonito(dt);
+  avanzaFx(dt); avanzaHumo(dt); avanzaBonito(dt); avanzaFiesta(dt);
   for (const f of J.caen) { f.x += f.vx * dt; f.z += f.vz * dt; f.vz -= 160 * dt; f.giro += dt * 6; f.v -= dt; if (f.z < 0 && !f.chof) { f.chof = true; onda(f.x, f.wy, 5); salpica(f.x, f.wy, 5, 'rgba(255,255,255,0.9)'); } }
   J.caen = J.caen.filter(f => f.v > 0 && f.z > -12);
 }

diff --git a/alfa/games/jump/js/bonito.js b/alfa/games/jump/js/bonito.js
@@ -1,10 +1,10 @@
 // Fans of Jump · Lo bonito: la luz del sol con destellos suaves (como una foto a contraluz), mariposas por las orillas, pétalos
-// que vuelan, brillitos en el agua, la estela de arcoíris del conejo cuando va de racha, el arcoíris grande de la Fiebre,
+// que vuelan, brillitos en el agua, la estela de arcoíris del conejo cuando va de racha (los arcoíris grandes de la Fiebre, en fiesta.js),
 // el confeti y los letreros que saltan en el centro («¡Meta!», «¡Nuevo récord!», «¡Torre x3!»…).
 'use strict';
 
 const ARCOIRIS = ['#ff5a6e', '#ff9a3c', '#ffd84a', '#7ad65a', '#4ac8f0', '#7a7aff', '#c46aff'];
-const BONITO = { mariposas: [], petalos: [], brillos: [], estela: [], confeti: [], arco: 0, vuelan: [] };
+const BONITO = { mariposas: [], petalos: [], brillos: [], estela: [], confeti: [], vuelan: [] };
 const LETREROS = [];
 
 function iniciaBonito() {
@@ -50,7 +50,6 @@ function avanzaBonito(dt) {
   B.confeti = B.confeti.filter(c => c.v > 0 && c.y < H + 10);
   for (const b of LETREROS) { b.t += dt; b.v -= dt; }
   while (LETREROS.length && LETREROS[0].v <= 0) LETREROS.shift();
-  B.arco += ((J.fiebre > 0 ? 1 : 0) - B.arco) * Math.min(1, dt * 3);
 }
 
 /* ---------- pintar ---------- */
@@ -89,15 +88,6 @@ function pintaBonitoAgua(t) {
     pintaMotaEstela(e.tipo, e.x + Math.sin(e.n) * 3, pantY(e.wy) - e.h - 10 + (1 - k) * 4, 2.2 * (0.5 + k * 0.5), e.n);
   }
   G.globalAlpha = 1;
-}
-// el arcoíris grande de la Fiebre, detrás de todo lo de arriba
-function pintaArco() {
-  const a = BONITO.arco;
-  if (a < 0.02) return;
-  const W = PAN.W, cx = W / 2, cy = PAN.H * 0.55;
-  G.save(); G.globalAlpha = 0.45 * a; G.lineCap = 'butt';
-  ARCOIRIS.forEach((col, i) => { G.beginPath(); G.arc(cx, cy, W * 0.62 - i * 4.2, Math.PI * 1.05, Math.PI * 1.95); G.lineWidth = 4.4; G.strokeStyle = col; G.stroke(); });
-  G.restore();
 }
 function mariposa(m, t) {
   const cols = [['#ffb3cf', '#ff7aa8'], ['#bfe6ff', '#6ab8ff'], ['#fff1a0', '#ffc93a']][m.c], aleteo = 0.25 + Math.abs(Math.sin(m.f * 6)) * 0.75;

diff --git a/alfa/games/jump/js/sonido.js b/alfa/games/jump/js/sonido.js
@@ -1,7 +1,7 @@
 // Fans of Jump · Sonido: el altavoz, el motor de música y las canciones son los de la serie (core/js/sistema/sonido.js y
 // core/js/serie/canciones.js, que core carga antes; todo se crea con código, sin archivos). Aquí está lo que ese motor pide a
 // cada juego (volumen y silencio), los efectos propios del juego (con tone y noise del motor) y qué canción suena:
-// la de los Animales Locos, más deprisa con la racha y a tope en la Fiebre arcoíris; al final, la de ganar o la de perder.
+// la de los Animales Locos, más deprisa con la racha y en la Fiebre arcoíris, más en cada nivel de la fiesta; al final, la de ganar o la de perder.
 'use strict';
 
 // lo que pide el motor de la serie
@@ -28,6 +28,9 @@ const SONIDO = {
   crac: () => { noise(0.18, v(0.18), 1800); tone(240, 90, 0.2, 'sawtooth', v(0.06)); },
   boing: () => [330, 494, 660].forEach((f, i) => tone(f, f * 1.25, 0.09, 'triangle', v(0.07), i * 0.06)),
   dron: () => { tone(140, 180, 0.5, 'sawtooth', v(0.03)); tone(150, 120, 0.5, 'sawtooth', v(0.03), 0.5); },
+  // la fiesta de la Fiebre: una fanfarria que sube más alto en cada nivel y la gente vitoreando (ruido que sube y baja)
+  fiesta: n => { [523, 659, 784, 1046, 1318].slice(0, 2 + n).forEach((f, i) => tone(f * (1 + n * 0.06), f * (1 + n * 0.06), 0.12, 'square', v(0.06), i * 0.06)); for (let i = 0; i < 3; i++) noise(0.25, v(0.05 + n * 0.01), 2600 + i * 500, 'bandpass', i * 0.12); },
+  pum: () => { noise(0.12, v(0.06), 1200); tone(900, 1500, 0.08, 'triangle', v(0.03), 0.05); },
   chof: () => { noise(0.5, v(0.25), 600); tone(200, 50, 0.4, 'sine', v(0.15)); },
 };
 
@@ -43,5 +46,5 @@ function vigilaMusica() {
   finSonado = false;
   if (M.trk && M.trk.once) return;
   if (M.name !== 'animales') musicSet('animales');
-  M.tmT = J.modo === 'menu' ? 0.9 : J.fiebre > 0 ? 1.28 : 1 + Math.min(0.2, J.racha * 0.02);
+  M.tmT = J.modo === 'menu' ? 0.9 : J.fiebre > 0 ? 1.24 + (FIESTA.nivel - 1) * 0.07 : 1 + Math.min(0.2, J.racha * 0.02);   // la fiesta, cada vez más frenética
 }

diff --git a/alfa/games/jump/index.html b/alfa/games/jump/index.html
@@ -12,7 +12,7 @@
 <link rel="preconnect" href="https://fonts.gstatic.com" crossorigin>
 <link rel="stylesheet" href="https://fonts.googleapis.com/css2?family=Baloo+2:wght@600;700;800&family=Luckiest+Guy&display=swap">
 <!-- ?v= es la versión del juego (la misma en la web y en la app): súbela al publicar y pon su entrada en js/novedades.js -->
-<script src="../../core/js/nucleo.js?v=0.3.3-a355.6ec842b"></script>
+<script src="../../core/js/nucleo.js?v=0.3.3-a356.d619ebe"></script>
 <script>NUCLEO.estilos('../../core/css/base.css', '../../core/css/menus.css')</script>
 <style>
 /* Fans of Jump: un solo canvas a la resolución real de la pantalla, con los dibujos 3D. El mundo mide unos 200 de ancho y se
@@ -37,7 +37,7 @@ NUCLEO.juego({
   despues: [
     '../../core/js/serie/canciones.js',
     'js/guardado.js', 'js/dibujo.js', 'js/atlas.js', 'js/sprites.js', 'js/amigos.js', 'js/rio.js', 'js/ola.js', 'js/efectos.js', 'js/rotura.js',
-    'js/sonido.js', 'js/bonito.js', 'js/misiones.js', 'js/objetos.js', 'js/partida.js', 'js/tutorial.js', 'js/premios.js', 'js/empezar.js', 'js/reto.js', 'js/dron.js', 'js/muerte.js', 'js/ranking.js', 'js/pantalla.js', 'js/menus.js', 'js/puesto.js', 'js/principal.js'],
+    'js/sonido.js', 'js/bonito.js', 'js/fiesta.js', 'js/misiones.js', 'js/objetos.js', 'js/partida.js', 'js/tutorial.js', 'js/premios.js', 'js/empezar.js', 'js/reto.js', 'js/dron.js', 'js/muerte.js', 'js/ranking.js', 'js/pantalla.js', 'js/menus.js', 'js/puesto.js', 'js/principal.js'],
 });
 </script>
 </body>

diff --git a/alfa/games/jump/js/rio.js b/alfa/games/jump/js/rio.js
@@ -190,10 +190,9 @@ function pintaTronco(tr, y, conejo) {
   if (tr.tipo === 'hunde') pintaTroncoAgrietado(tr, x, y, k);   // agrietado: se va abriendo al pisarlo (rotura.js)
   else sprite(GUARDA.piel && GUARDA.piel !== 'madera' ? 'piel_' + GUARDA.piel : 'tronco' + (tr.id % 3), x, y, tr.r);   // la piel del puesto de Lola
   if (tr.tipo === 'muelle') {
-    // una gelatina rosa que bota
-    const sq = 1 - tr.boing * 0.35 * Math.cos(tr.boing * 18), ry = tr.r * 0.3 * sq;
-    elipse(x, y - 2 - ry * 0.4, tr.r * 0.58, ry, vol(x, y - 2, tr.r * 0.58, ry, '#ff9ac8'), OLC, 0.8);
-    elipse(x - tr.r * 0.2, y - 2 - ry * 0.85, tr.r * 0.16, ry * 0.3, 'rgba(255,255,255,0.75)', null);
+    // la gelatina rosa 3D con su cereza: tiembla siempre un poquito y, al caer encima, se aplasta y se estira
+    const b = tr.boing, sq = 1 - b * 0.35 * Math.cos(b * 18) + Math.sin(tr.fase * 5) * 0.025;
+    sprite('gelatina', x, y - tr.r * 0.08, tr.r * 0.92, 0, 1 + (1 - sq) * 0.6, sq);
   }
   return y;
 }

diff --git a/alfa/games/rouflage/index.html b/alfa/games/rouflage/index.html
@@ -10,7 +10,7 @@
 <link rel="preconnect" href="https://fonts.googleapis.com">
 <link rel="preconnect" href="https://fonts.gstatic.com" crossorigin>
 <link rel="stylesheet" href="https://fonts.googleapis.com/css2?family=Baloo+2:wght@600;700;800&family=Luckiest+Guy&display=swap">
-<script src="../../core/js/nucleo.js?v=0.2.39-a355.6ec842b"></script>
+<script src="../../core/js/nucleo.js?v=0.2.39-a356.d619ebe"></script>
 <script>NUCLEO.estilos('../../core/css/base.css', '../../core/css/menus.css', '../../core/css/menus-extra.css')</script>
 <script>NUCLEO.estilos('estilo.css', 'estilo-taller.css', 'estilo-pantallas.css', 'estilo-pvp.css', 'estilo-armario.css', 'estilo-menus.css', 'estilo-misiones.css', 'estilo-escenario.css', 'estilo-votos.css', 'estilo-gacha.css', 'estilo-compra.css', 'estilo-fin.css', 'estilo-talentos.css')</script>
 </head>

diff --git a/alfa/games/karts/index.html b/alfa/games/karts/index.html
@@ -8,7 +8,7 @@
 <meta name="description" content="Fans of Karts (juego): carreras de karts en pixel art de consola portátil con los líderes de Fans of Rumble. Tres pistas, seis pilotos, objetos con mala idea y Microblizz, que ha comprado la carrera.">
 <link rel="icon" type="image/png" href="img/icon-192.png">
 <link rel="apple-touch-icon" href="img/icon-192.png">
-<script src="../../core/js/nucleo.js?v=0.7.2-a355.6ec842b"></script>
+<script src="../../core/js/nucleo.js?v=0.7.2-a356.d619ebe"></script>
 <script>NUCLEO.estilos('../../core/css/base.css', '../../core/css/menus.css', '../../core/css/menus-tienda.css', '../../core/css/menus-extra.css', 'css/tienda.css', 'css/pvp.css')</script>
 <link rel="stylesheet" href="https://fonts.googleapis.com/css2?family=Baloo+2:wght@600;700;800&family=Luckiest+Guy&display=swap">
 <style>
